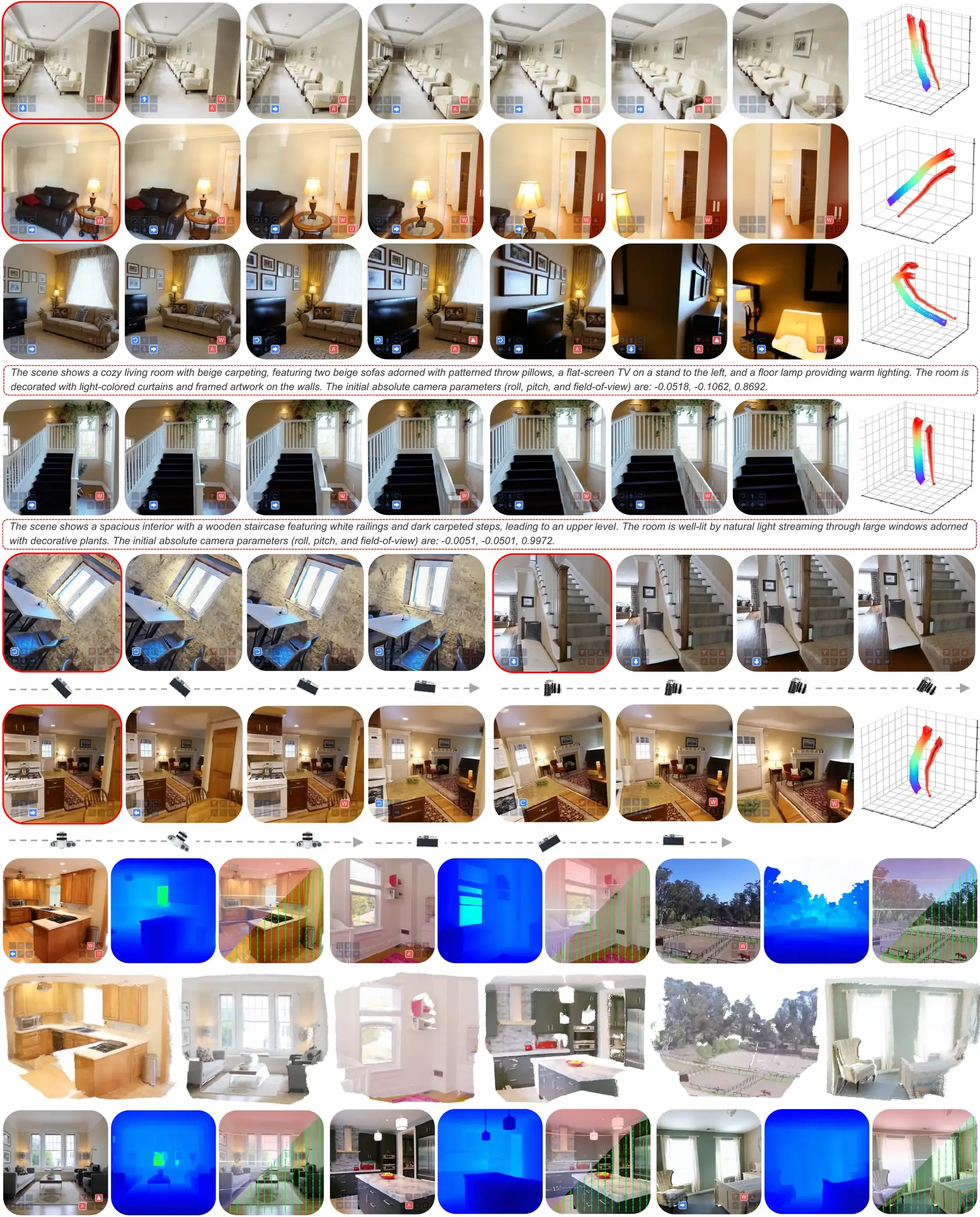
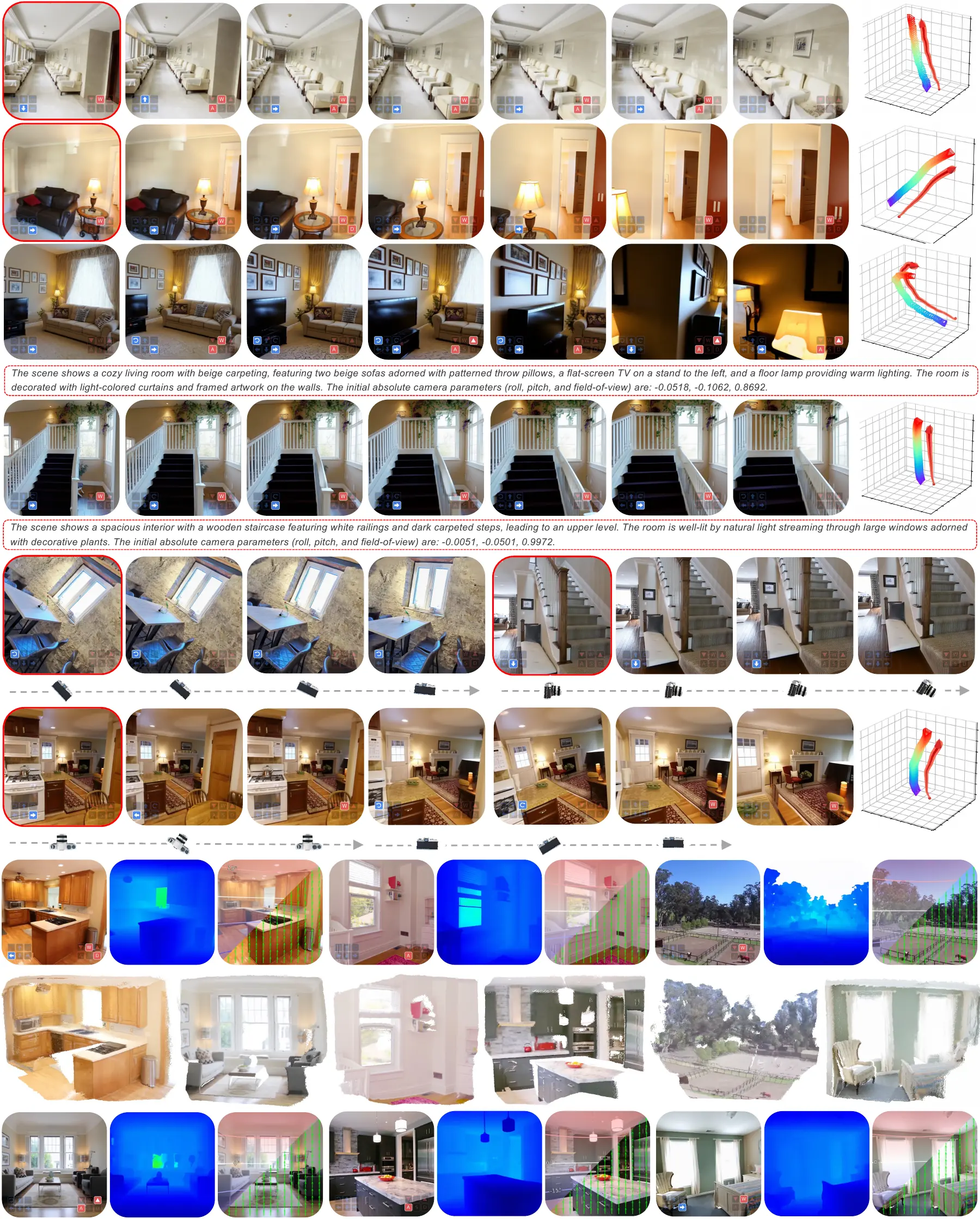
Update Puffin-World figures from latest paper

diff --git a/projects/puffin-world/index.html b/projects/puffin-world/index.html
@@ -112,9 +112,9 @@
 
     <section id="overview" class="section-shell teaser-section">
       <figure class="paper-figure hero-figure teaser-stack">
-        <img src="assets/teaser-perception.webp" alt="Puffin-World physical-world perception and free-viewpoint spatial simulation" width="1800" height="772">
-        <img src="assets/teaser-generation.webp" alt="Puffin-World long-trajectory, extreme-rotation and text-driven world generation" width="1800" height="886">
-        <img src="assets/teaser-world-states.webp" alt="Puffin-World native appearance, geometry and physics states with 3D reconstruction" width="1800" height="780">
+        <img src="assets/teaser-perception.webp?v=20260828-paper-update" alt="Puffin-World physical-world perception and free-viewpoint spatial simulation" width="1800" height="763">
+        <img src="assets/teaser-generation.webp?v=20260828-paper-update" alt="Puffin-World long-trajectory, extreme-rotation and text-driven world generation" width="1800" height="861">
+        <img src="assets/teaser-world-states.webp?v=20260828-paper-update" alt="Puffin-World native appearance, geometry and physics states with 3D reconstruction" width="1800" height="767">
       </figure>
       <div class="lead-copy">
         <p class="section-kicker">Beyond pixels, toward worlds</p>
@@ -123,7 +123,7 @@
       </div>
 
       <figure class="paper-figure overview-figure">
-        <img loading="lazy" src="assets/figure1-overview.webp" alt="Overview of Puffin-World modalities, tasks, and unified understanding, generation, and reconstruction capabilities" width="2704" height="1118">
+        <img loading="lazy" src="assets/figure1-overview.webp?v=20260828-paper-update" alt="Overview of Puffin-World modalities, tasks, and unified understanding, generation, and reconstruction capabilities" width="2704" height="1097">
         <figcaption>Puffin-World unifies camera-physics understanding, free-viewpoint simulation, and 3D world generation and reconstruction through native appearance, geometry, and physics states.</figcaption>
       </figure>
 
@@ -361,7 +361,7 @@
         <p>Puffin-World combines a geometry-aligned vision encoder, an LLM, a diffusion model, and a lightweight connector. It supports understanding, generation, and reconstruction without relying on task-specific external geometry modules.</p>
       </div>
       <figure class="paper-figure framed-figure">
-        <img loading="lazy" src="assets/framework.webp" alt="Puffin-World network architecture" width="1800" height="819">
+        <img loading="lazy" src="assets/framework.webp?v=20260828-paper-update" alt="Puffin-World network architecture" width="1800" height="816">
         <figcaption>The unified network produces understanding results and native physics, appearance, and geometry world states.</figcaption>
       </figure>
 
@@ -446,7 +446,7 @@
       </div>
 
       <figure class="paper-figure comparison-figure">
-        <img loading="lazy" src="assets/free-viewpoint.webp" alt="Free-viewpoint spatial simulation comparison across image generation models" width="1800" height="955">
+        <img loading="lazy" src="assets/free-viewpoint.webp?v=20260828-paper-update" alt="Free-viewpoint spatial simulation comparison across image generation models" width="1800" height="955">
         <figcaption>Free-viewpoint text-to-image generation. The rightmost column shows Puffin-World results; angular values closer to 0° indicate better spatial alignment.</figcaption>
       </figure>
 
@@ -461,7 +461,7 @@
       </div>
 
       <figure class="paper-figure modeling-figure">
-        <img loading="lazy" src="assets/figure6-3d-world-modeling.webp" alt="Qualitative results of Puffin-World 3D world modeling across image-to-3D, text-to-3D, camera control, native world states, and reconstruction" width="1800" height="2234">
+        <img loading="lazy" src="assets/figure6-3d-world-modeling.webp?v=20260828-paper-update" alt="Qualitative results of Puffin-World 3D world modeling across image-to-3D, text-to-3D, camera control, native world states, and reconstruction" width="1800" height="2238">
         <figcaption>Qualitative results of 3D world modeling. Red boxes indicate model inputs; the remaining views and native world states are generated or predicted by Puffin-World.</figcaption>
       </figure>
 
